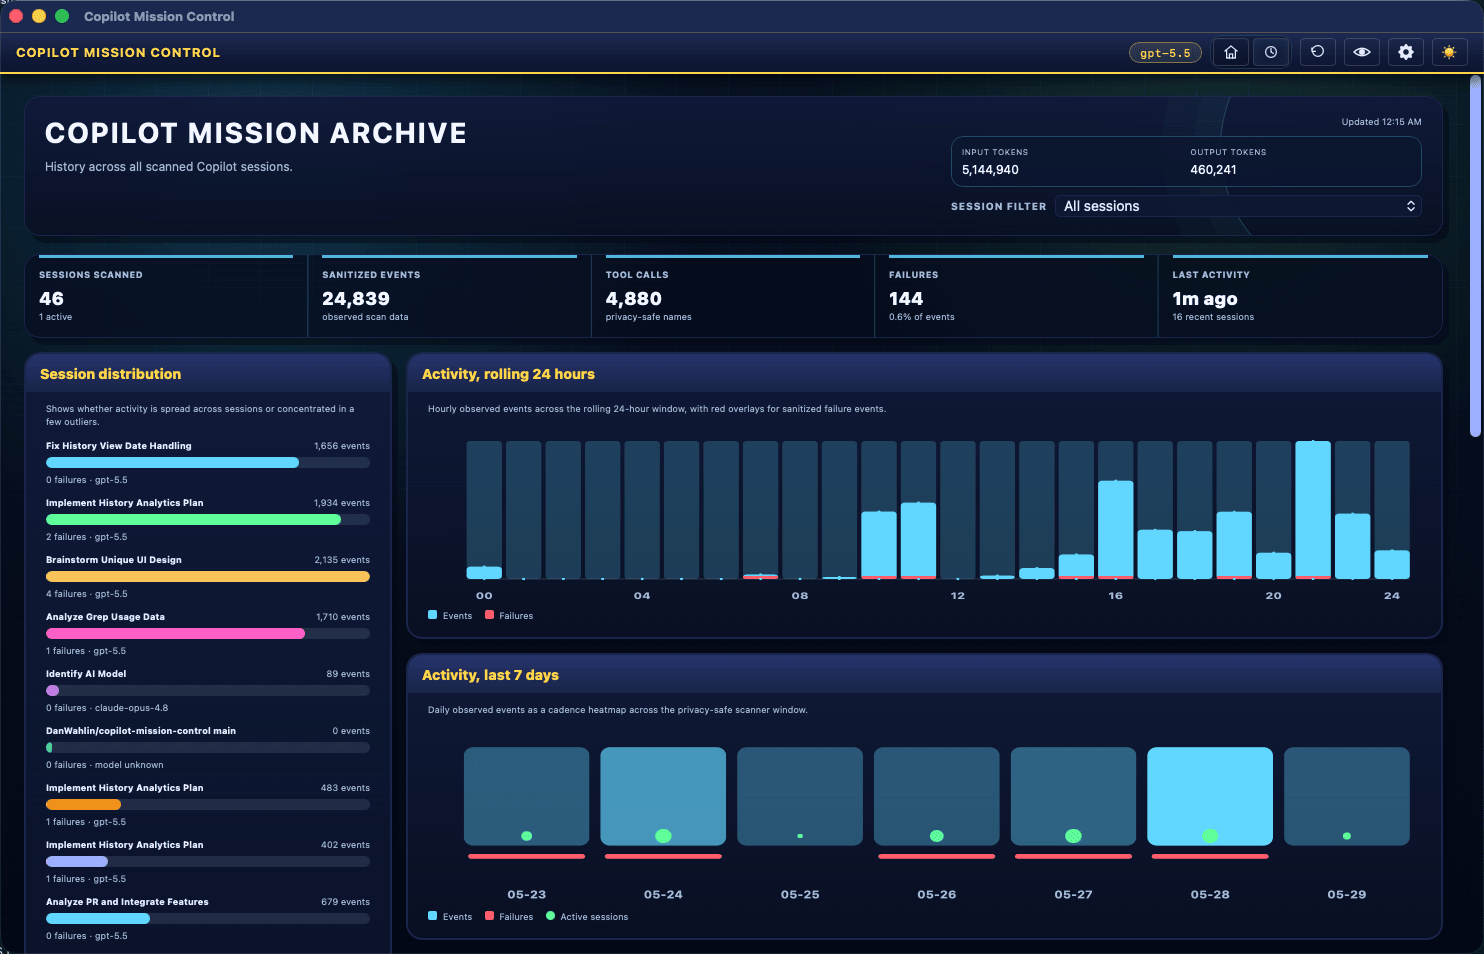
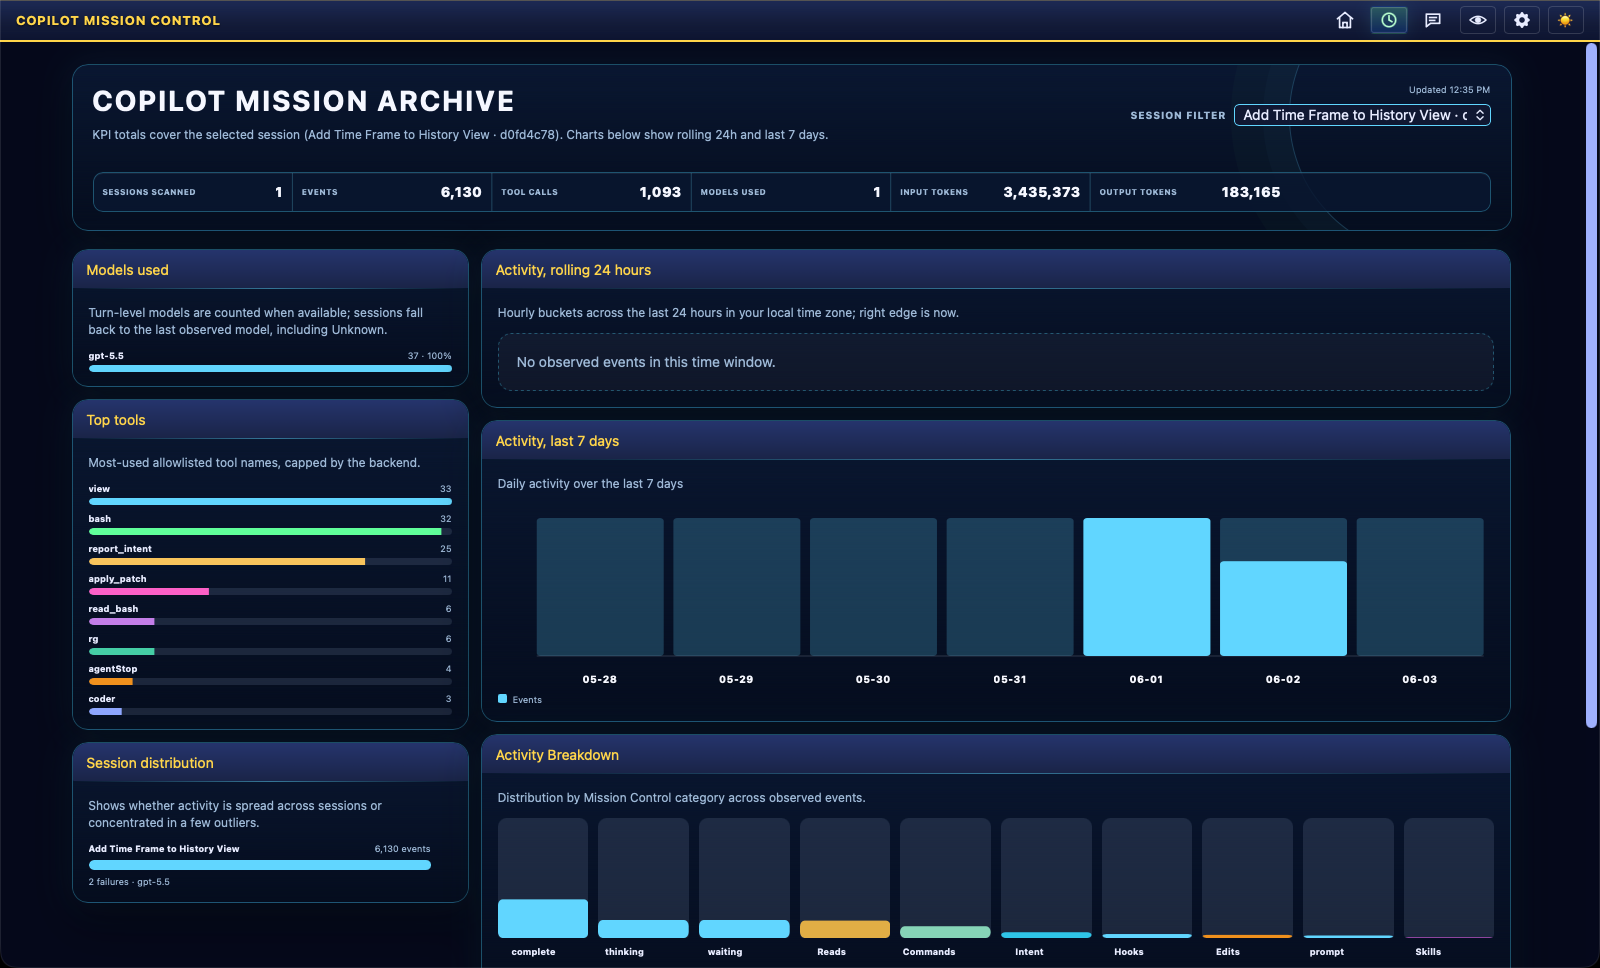
Add history and chat images

diff --git a/README.md b/README.md
@@ -12,6 +12,10 @@ Built with [Tauri 2](https://v2.tauri.app/), [Phaser 4](https://phaser.io/), and
 
 ![Copilot Mission Control focus mode](docs/img/focus-mode.gif)
 
+![Copilot Mission Control history](docs/img/history.webp)
+
+![Copilot Mission Control analytics chat](docs/img/chat.webp)
+
 ## What it does
 
 Copilot Mission Control reads the local session state Copilot CLI already writes under `~/.copilot/session-state/` and tracks: